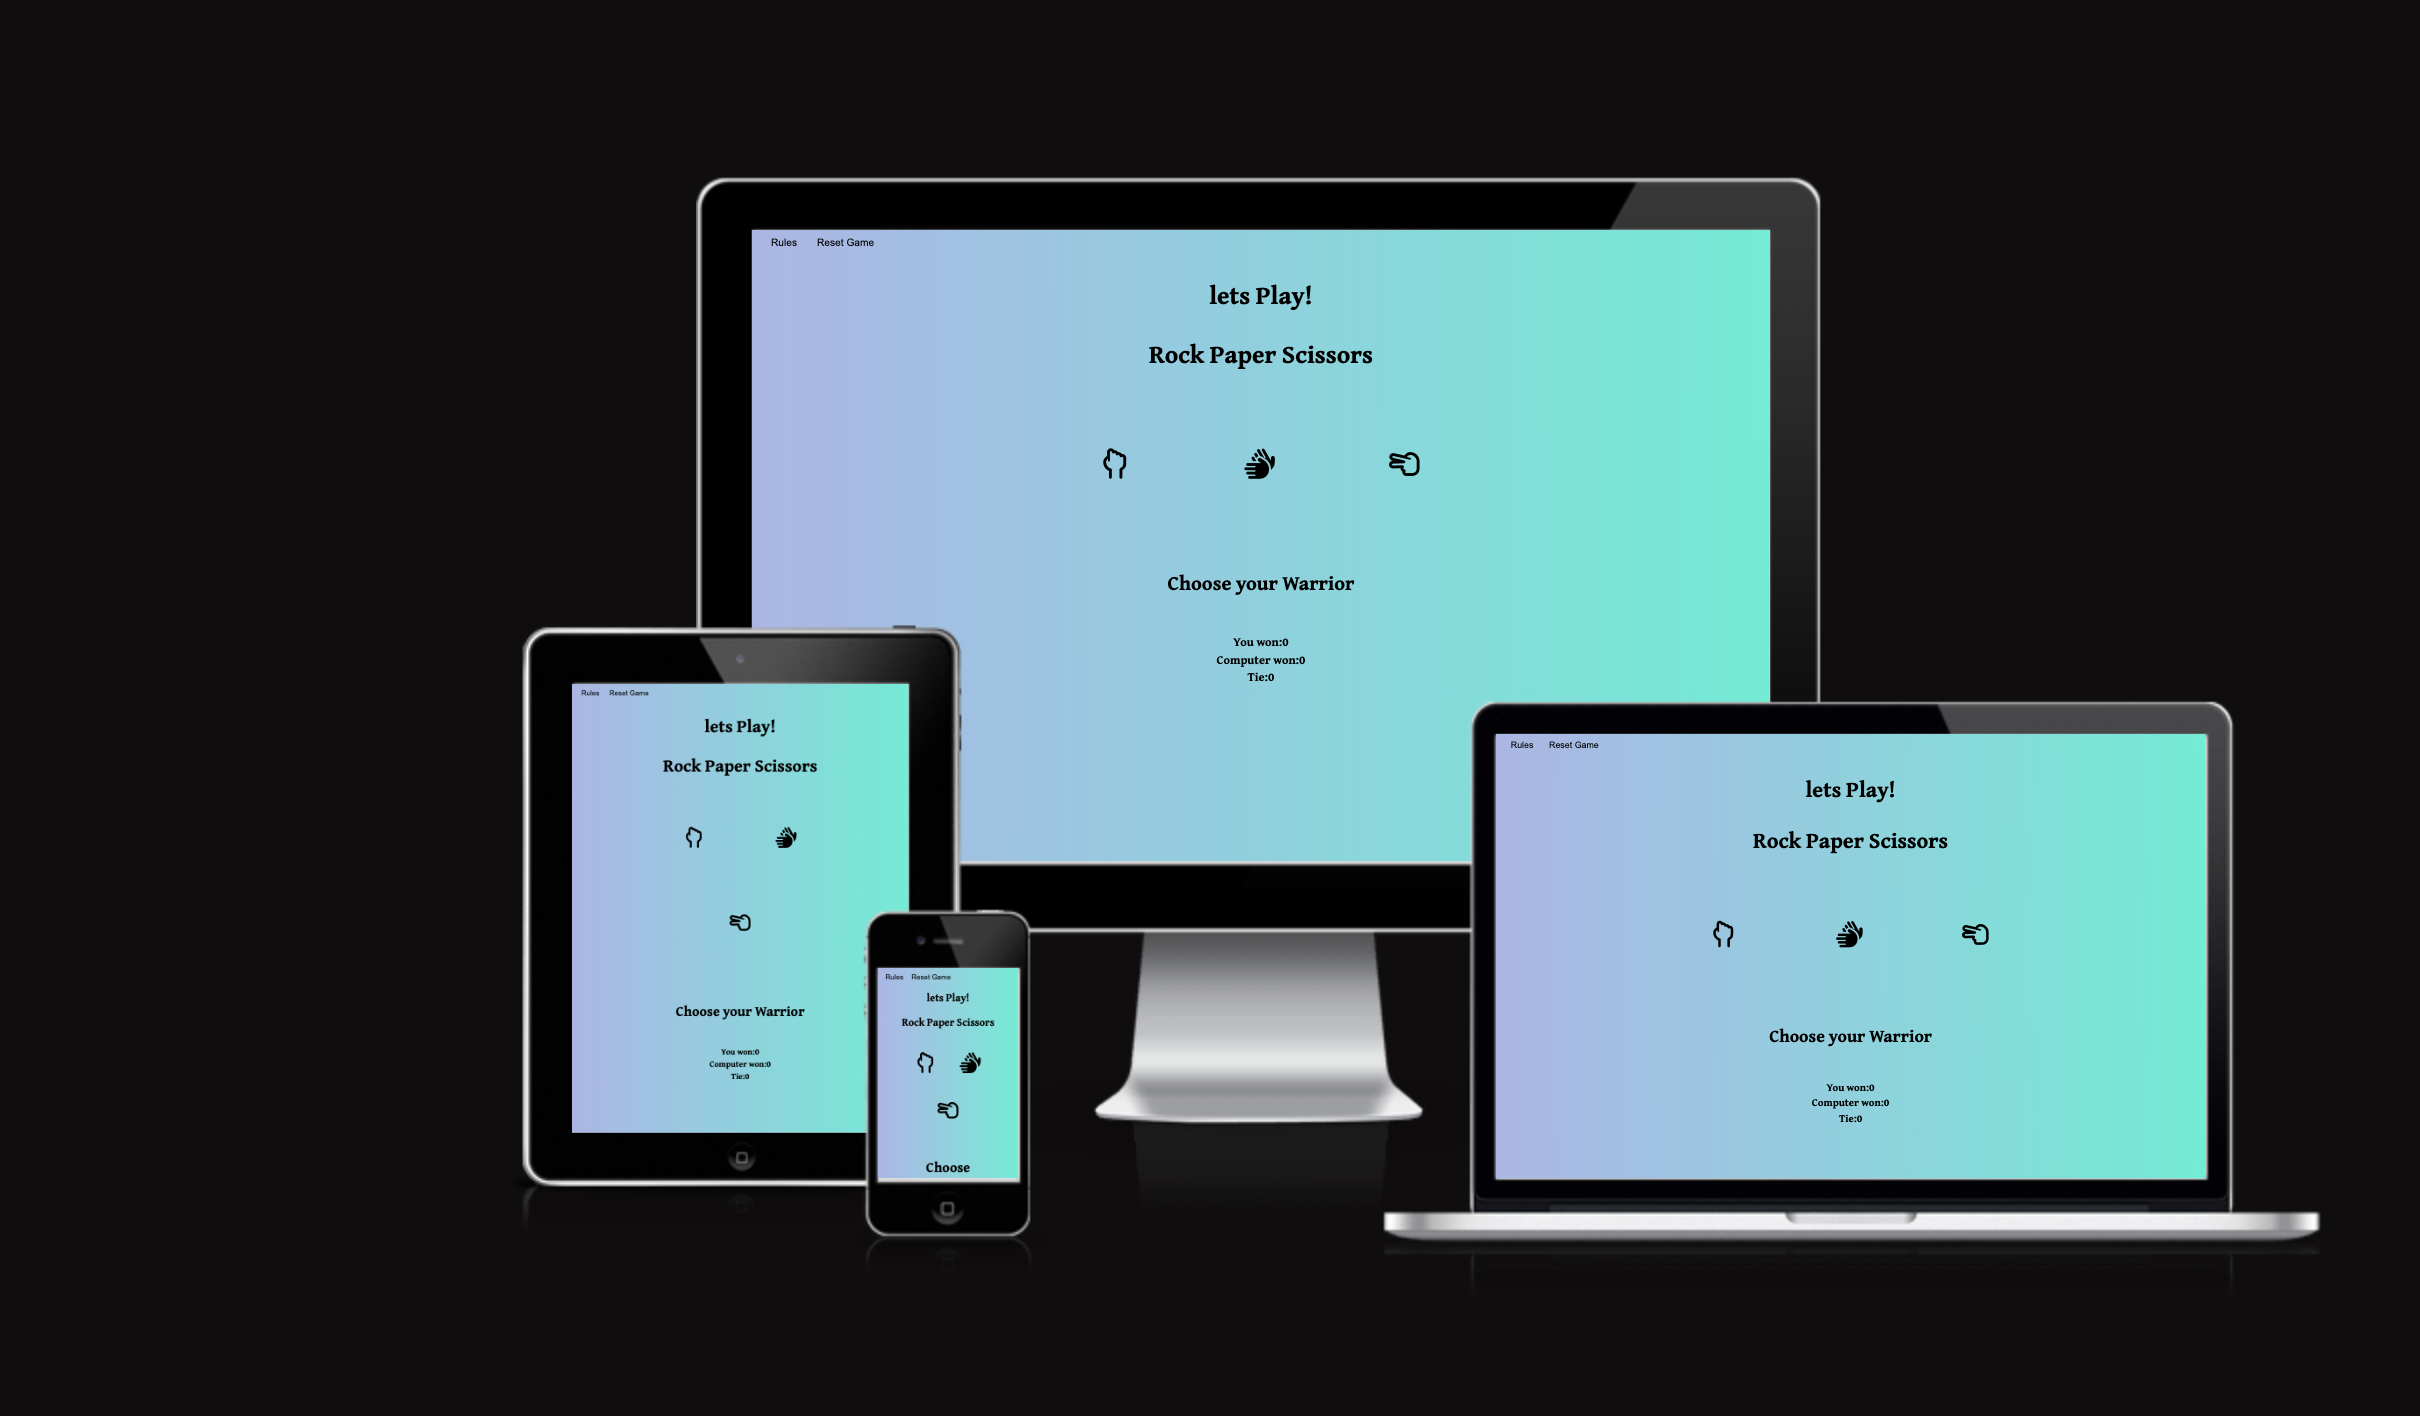
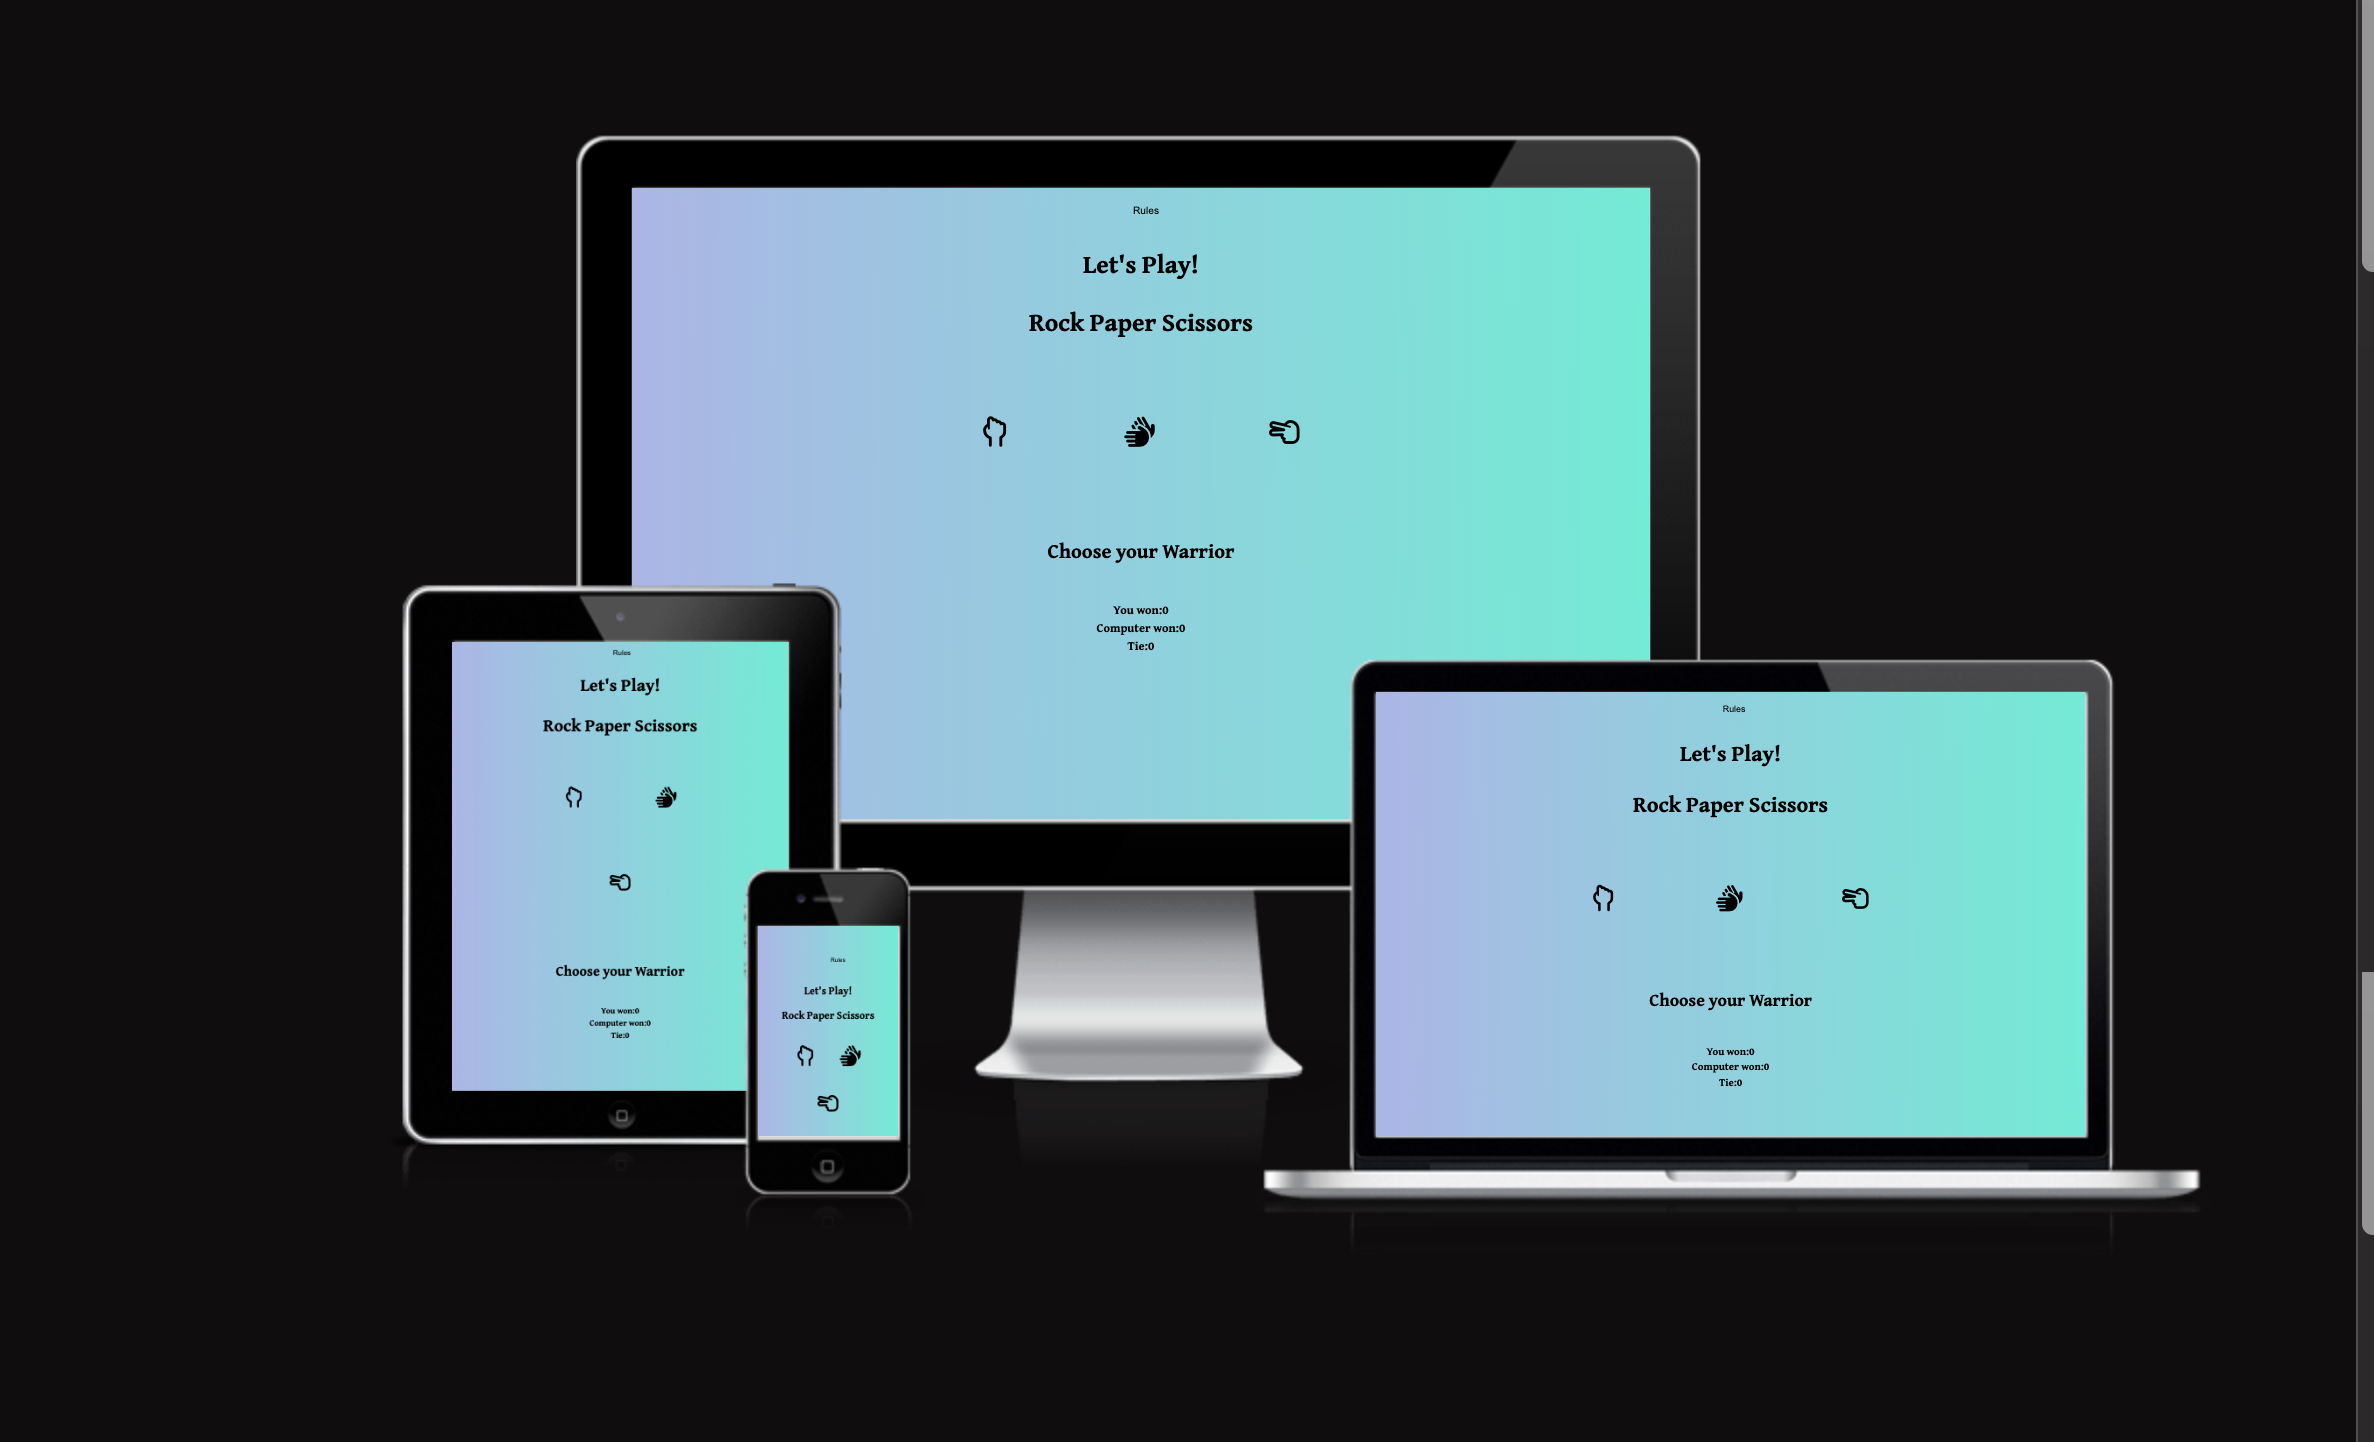
add the score in the score area while playing

diff --git a/assets/js/script.js b/assets/js/script.js
@@ -25,68 +25,79 @@ window.onclick = function(event) {
 }
 
 
-$(document).ready(function(){
-  // Initially, hide all buttons in both player and computer areas
-  $(".game-area .btn--click").hide();
+$(document).ready(function () {
+  // Initialize scores
+  var yourScore = 0;
+  var computerScore = 0;
+  var drawScore = 0;
+
+  // Hide computer choice buttons initially
+  $(".computer-area .btn").hide();
 
   // Function to determine the winner and update the scores
   function determineWinner(playerChoice, computerChoice) {
-      // Rock: 2, Paper: 3, Scissors: 1
-      if (playerChoice === computerChoice) {
-          return "Oh, it's a draw!";
-      } else if (
-          (playerChoice === 2 && computerChoice === 1) ||
-          (playerChoice === 3 && computerChoice === 2) ||
-          (playerChoice === 1 && computerChoice === 3)
-      ) {
-          return "You win!";
-      } else {
-          return "Your device wins!";
-      }
+    // Rock: 2, Paper: 3, Scissors: 1
+    if (playerChoice === computerChoice) {
+      drawScore++;
+      $(".draw span").html(drawScore);
+      return "It's a draw!";
+    } else if (
+      (playerChoice === 2 && computerChoice === 1) ||
+      (playerChoice === 3 && computerChoice === 2) ||
+      (playerChoice === 1 && computerChoice === 3)
+    ) {
+      yourScore++;
+      $(".your-score span").html(yourScore);
+      return "You win!";
+    } else {
+      computerScore++;
+      $(".computers-score span").html(computerScore);
+      return "Computer wins!";
+    }
   }
 
   // Function to reset the game
   function resetGame() {
-      // Hide all buttons in both player and computer areas
-      $(".game-area .btn--click").hide();
+    // Hide all buttons in both player and computer areas
+    $(".game-area .btn--click").hide();
 
-      // Show player buttons and make player area active
-      $(".player-area .btn--click").show();
-      $(".player-area").addClass("active");
+    // Show player buttons and make player area active
+    $(".player-area .btn--click").show();
+    $(".player-area").addClass("active");
 
-      // Clear the result area
-      $(".result-area").html("Choose your warrior");
+    // Clear the result area
+    $(".result-area").html("Choose your warrior");
   }
 
   // Event handler for player's button click
-  $(".player-area.active .btn--click").click(function() {
-      // Checking if the game is active
-      if ($(".player-area").hasClass("active")) {
-          // Get the value of the clicked option (1, 2, or 3)
-          var playerChoice = parseInt($(this).attr("value"));
+  $(".player-area.active .btn--click").click(function () {
+    // Checking if the game is active
+    if ($(".player-area").hasClass("active")) {
+      // Get the value of the clicked option (1, 2, or 3)
+      var playerChoice = parseInt($(this).attr("value"));
 
-          // Generate a random integer between 1 and 3 for the computer's choice
-          var computerChoice = Math.floor(Math.random() * 3) + 1;
+      // Generate a random integer between 1 and 3 for the computer's choice
+      var computerChoice = Math.floor(Math.random() * 3) + 1;
 
-          // Hide all buttons in both player and computer areas
-          $(".game-area .btn--click").hide();
+      // Hide all buttons in both player and computer areas
+      $(".game-area .btn--click").hide();
 
-          // Show only the clicked button and the computer's choice button
-          $(this).show();
-          $(".computer-area .btn--click[value='" + computerChoice + "']").show();
+      // Show only the clicked button and the computer's choice button
+      $(this).show();
+      $(".computer-area .btn--click[value='" + computerChoice + "']").show();
 
-          // Determine the winner and update the result area
-          var result = determineWinner(playerChoice, computerChoice);
-          $(".result-area").html(result);
+      // Determine the winner and update the result area
+      var result = determineWinner(playerChoice, computerChoice);
+      $(".result-area").html(result);
 
-          // Remove the active class from the player's area
-          $(".player-area").removeClass("active");
+      // Remove the active class from the player's area
+      $(".player-area").removeClass("active");
 
-          // Set a timer to reset the game after 2 seconds (adjust the time as needed)
-          setTimeout(function() {
-              resetGame();
-          }, 2000);
-      }
+      // Set a timer to reset the game after 2 seconds (adjust the time as needed)
+      setTimeout(function () {
+        resetGame();
+      }, 2000);
+    }
   });
 
   // Initial game setup
